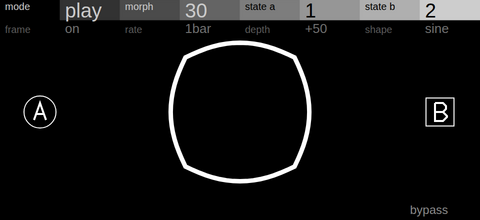
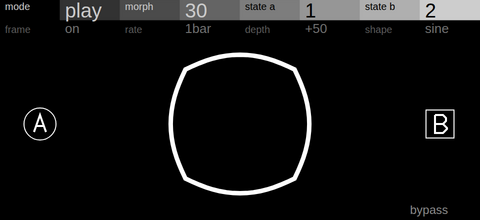
Move the page's graphics down 12 pixels, below the two-row header
The shape, markers and their letters, the write dot, and the one-copy
message with its covers.

diff --git a/machines/morphose/display.cpp b/machines/morphose/display.cpp
@@ -8,7 +8,8 @@
 namespace morphose {
 // Geometry, in pixels: the shape in the middle at 1.5x, the state markers
 // beside it, the write dot at the top right.
-const opxy::i32 kCentreX = 240, kCentreY = 112, kMarkerLeft = 40, kMarkerRight = 440;
+// Below the two-row header, which takes the top 38 pixels.
+const opxy::i32 kCentreX = 240, kCentreY = 124, kMarkerLeft = 40, kMarkerRight = 440;
 // The shape's circle radius and square half-side, chosen for about the same area.
 const opxy::i32 kRadius = 48, kHalfSide = 42;
 // cos(k * 2 pi / 64) for k = 0..16, Q10.
@@ -109,7 +110,7 @@ inline void display(DisplayState& state, const opxy::draw::Input& input, Frame& 
     }
     // The covers sit over the message, the rest is drawn over them.
     for (unsigned i = 0; i < kCovers; ++i)
-        place(frame, kCover0 + i, (86 + 40 * static_cast<opxy::i32>(i)) * unit, 122 * unit, unit, kBlack, fill_and_stroke);
+        place(frame, kCover0 + i, (86 + 40 * static_cast<opxy::i32>(i)) * unit, 134 * unit, unit, kBlack, fill_and_stroke);
 
     // Writing plays the written state alone, so the morph is not in effect:
     // its value is boxed in red. Writing a side that is
@@ -136,7 +137,7 @@ inline void display(DisplayState& state, const opxy::draw::Input& input, Frame& 
               s ? stroke : fill_and_stroke);
     // The red boxes mark page 1's header values.
     if (writing)
-        place(frame, kWriteDot, 456 * unit, 44 * unit, unit, kRed, fill_and_stroke);
+        place(frame, kWriteDot, 456 * unit, 56 * unit, unit, kRed, fill_and_stroke);
     else
         hide(frame, kWriteDot);
     if (writing && !second)

diff --git a/machines/morphose/tests/controls.cpp b/machines/morphose/tests/controls.cpp
@@ -127,7 +127,7 @@ int main() {
     bool covered = true;
     for (unsigned i = 0; i < kCovers; ++i)
         covered = covered && frame.nodes[kCover0 + i].x == (86 + 40 * static_cast<opxy::i32>(i)) * opxy::draw::unit &&
-                  frame.nodes[kCover0 + i].y == 122 * opxy::draw::unit;
+                  frame.nodes[kCover0 + i].y == 134 * opxy::draw::unit;
     expect(covered && frame.nodes[kEdCover].x == 457 * opxy::draw::unit &&
            frame.nodes[kEdCover + 1].x == 464 * opxy::draw::unit, "message and label's ed covered");
     // Bypassed, the shape and markers dim.
